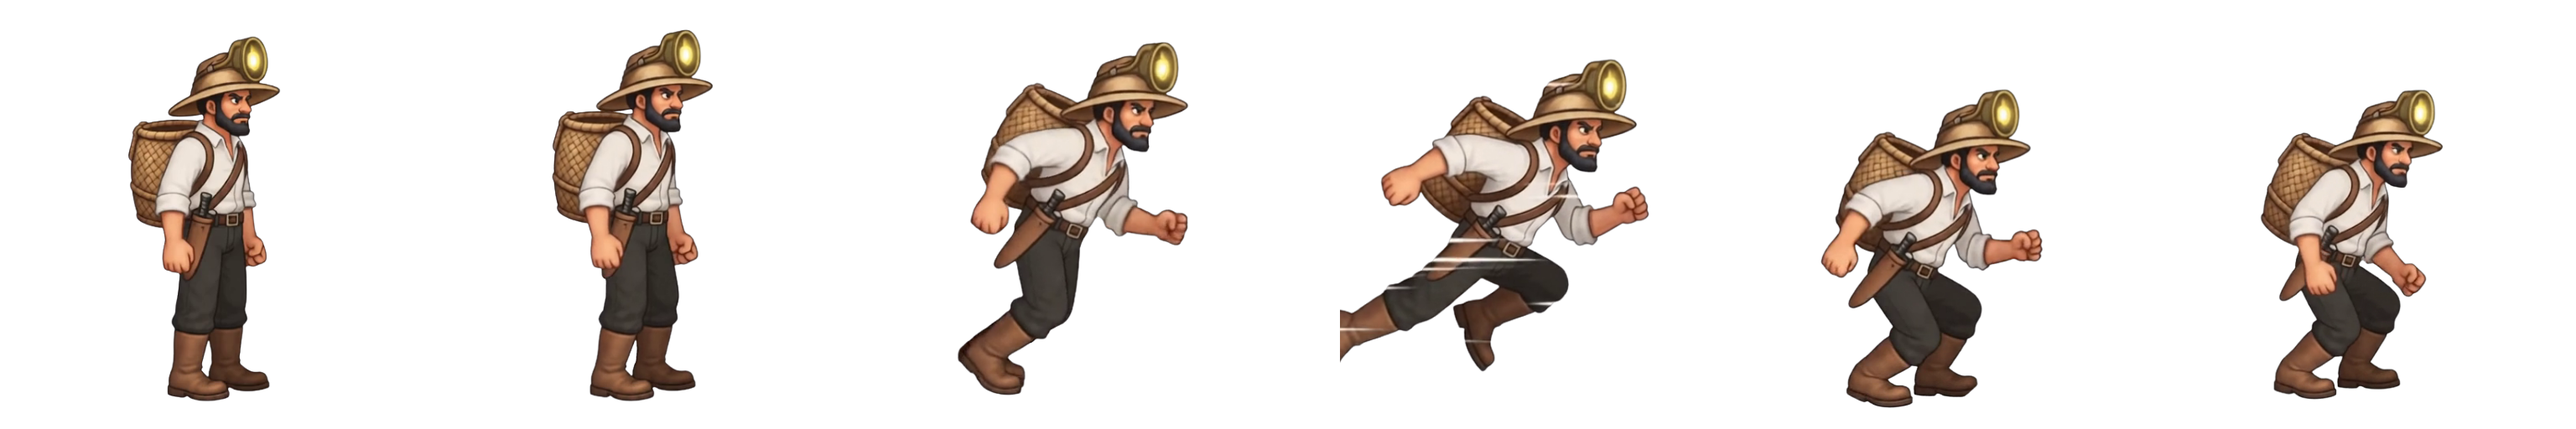
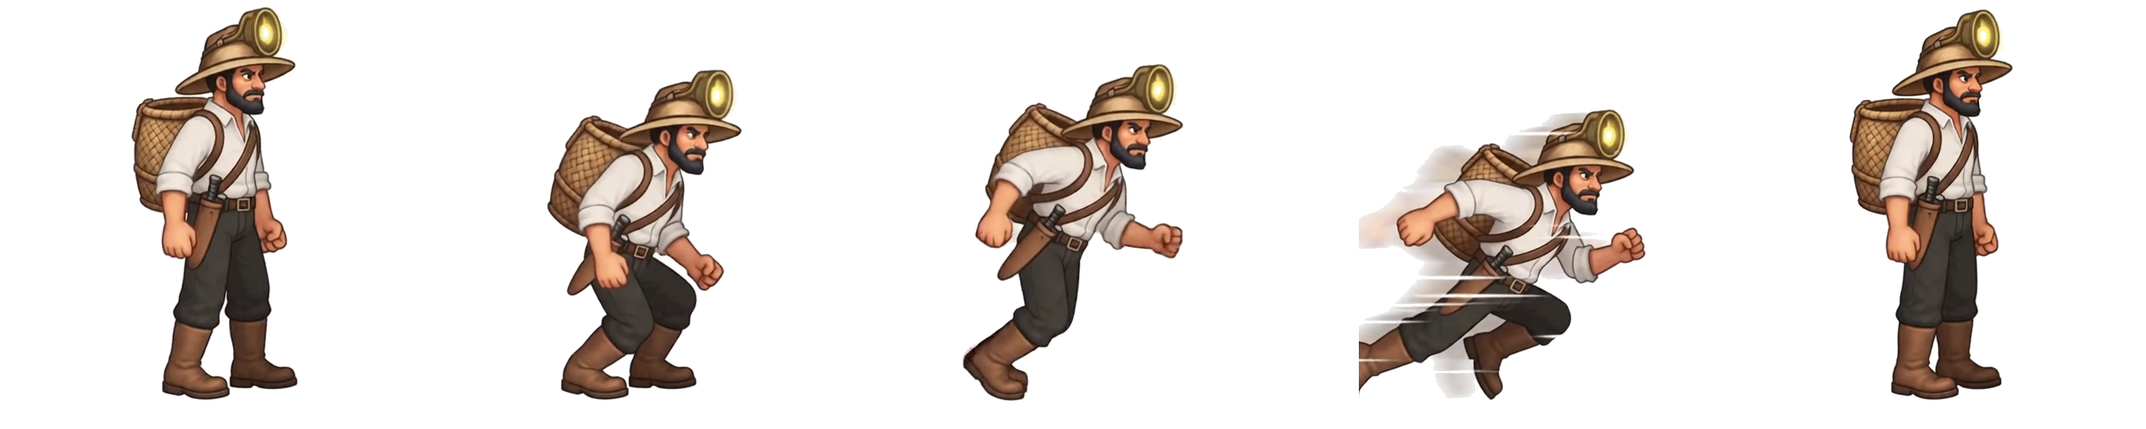
Substitui animacao dash do seringueiro por 5 novos frames

diff --git a/src/game/scenes/Level5Scene.js b/src/game/scenes/Level5Scene.js
@@ -1591,11 +1591,11 @@ export class Level5Scene extends Scene
             {
                 this.idleVisualStartedAt=null;
                 if(this.attackSprite.texture.key!=='seringueiroDash')this.attackSprite.setTexture('seringueiroDash',0);
-                // Seis poses distribuídas proporcionalmente na duração funcional já existente do dash.
+                // Cinco poses distribuídas proporcionalmente na duração funcional já existente do dash.
                 const dashDuration=this.dashDuration||190;
                 const dashRemaining=Math.max(0,(this.dashEndsAt??time)-time);
                 const dashElapsed=Math.max(0,dashDuration-dashRemaining);
-                this.attackSprite.setFrame(Math.min(5,Math.floor((dashElapsed/dashDuration)*6)));
+                this.attackSprite.setFrame(Math.min(4,Math.floor((dashElapsed/dashDuration)*5)));
             }
             else if(landing)
             {

diff --git a/src/game/scenes/Level2Scene.js b/src/game/scenes/Level2Scene.js
@@ -738,11 +738,11 @@ export class Level2Scene extends Scene
             {
                 this.idleVisualStartedAt=null;
                 if(this.attackSprite.texture.key!=='seringueiroDash')this.attackSprite.setTexture('seringueiroDash',0);
-                // Seis poses distribuídas proporcionalmente na duração funcional já existente do dash.
+                // Cinco poses distribuídas proporcionalmente na duração funcional já existente do dash.
                 const dashDuration=this.dashDuration||190;
                 const dashRemaining=Math.max(0,(this.dashEndsAt??time)-time);
                 const dashElapsed=Math.max(0,dashDuration-dashRemaining);
-                this.attackSprite.setFrame(Math.min(5,Math.floor((dashElapsed/dashDuration)*6)));
+                this.attackSprite.setFrame(Math.min(4,Math.floor((dashElapsed/dashDuration)*5)));
             }
             else if(landing)
             {

diff --git a/src/game/scenes/Level3Scene.js b/src/game/scenes/Level3Scene.js
@@ -714,11 +714,11 @@ export class Level3Scene extends Scene
             {
                 this.idleVisualStartedAt=null;
                 if(this.attackSprite.texture.key!=='seringueiroDash')this.attackSprite.setTexture('seringueiroDash',0);
-                // Seis poses distribuídas proporcionalmente na duração funcional já existente do dash.
+                // Cinco poses distribuídas proporcionalmente na duração funcional já existente do dash.
                 const dashDuration=this.dashDuration||190;
                 const dashRemaining=Math.max(0,(this.dashEndsAt??time)-time);
                 const dashElapsed=Math.max(0,dashDuration-dashRemaining);
-                this.attackSprite.setFrame(Math.min(5,Math.floor((dashElapsed/dashDuration)*6)));
+                this.attackSprite.setFrame(Math.min(4,Math.floor((dashElapsed/dashDuration)*5)));
             }
             else if(landing)
             {

diff --git a/src/game/scenes/Level4Scene.js b/src/game/scenes/Level4Scene.js
@@ -995,11 +995,11 @@ export class Level4Scene extends Scene
             {
                 this.idleVisualStartedAt=null;
                 if(this.attackSprite.texture.key!=='seringueiroDash')this.attackSprite.setTexture('seringueiroDash',0);
-                // Seis poses distribuídas proporcionalmente na duração funcional já existente do dash.
+                // Cinco poses distribuídas proporcionalmente na duração funcional já existente do dash.
                 const dashDuration=this.dashDuration||190;
                 const dashRemaining=Math.max(0,(this.dashEndsAt??time)-time);
                 const dashElapsed=Math.max(0,dashDuration-dashRemaining);
-                this.attackSprite.setFrame(Math.min(5,Math.floor((dashElapsed/dashDuration)*6)));
+                this.attackSprite.setFrame(Math.min(4,Math.floor((dashElapsed/dashDuration)*5)));
             }
             else if(landing)
             {

diff --git a/src/game/scenes/Game.js b/src/game/scenes/Game.js
@@ -1012,11 +1012,11 @@ export class Game extends Scene
             {
                 this.idleVisualStartedAt=null;
                 if(this.attackSprite.texture.key!=='seringueiroDash')this.attackSprite.setTexture('seringueiroDash',0);
-                // Seis poses distribuídas proporcionalmente na duração funcional já existente do dash.
+                // Cinco poses distribuídas proporcionalmente na duração funcional já existente do dash.
                 const dashDuration=this.dashDuration||190;
                 const dashRemaining=Math.max(0,(this.dashEndsAt??time)-time);
                 const dashElapsed=Math.max(0,dashDuration-dashRemaining);
-                this.attackSprite.setFrame(Math.min(5,Math.floor((dashElapsed/dashDuration)*6)));
+                this.attackSprite.setFrame(Math.min(4,Math.floor((dashElapsed/dashDuration)*5)));
             }
             else if(landing)
             {

diff --git a/src/game/scenes/Preloader.js b/src/game/scenes/Preloader.js
@@ -37,7 +37,7 @@ export class Preloader extends Scene
         this.load.spritesheet('seringueiroIdle', 'idle.png', { frameWidth: 512, frameHeight: 512, endFrame: 11 });
         this.load.spritesheet('seringueiroWalk', 'walk.png', { frameWidth: 512, frameHeight: 512, endFrame: 7 });
         this.load.spritesheet('seringueiroJump', 'jump.png', { frameWidth: 512, frameHeight: 512, endFrame: 4 });
-        this.load.spritesheet('seringueiroDash', 'dash.png', { frameWidth: 512, frameHeight: 512, endFrame: 5 });
+        this.load.spritesheet('seringueiroDash', 'dash.png', { frameWidth: 512, frameHeight: 512, endFrame: 4 });
         this.load.spritesheet('seringueiroLanding', 'landing.png', { frameWidth: 512, frameHeight: 512, endFrame: 1 });
     }
 
